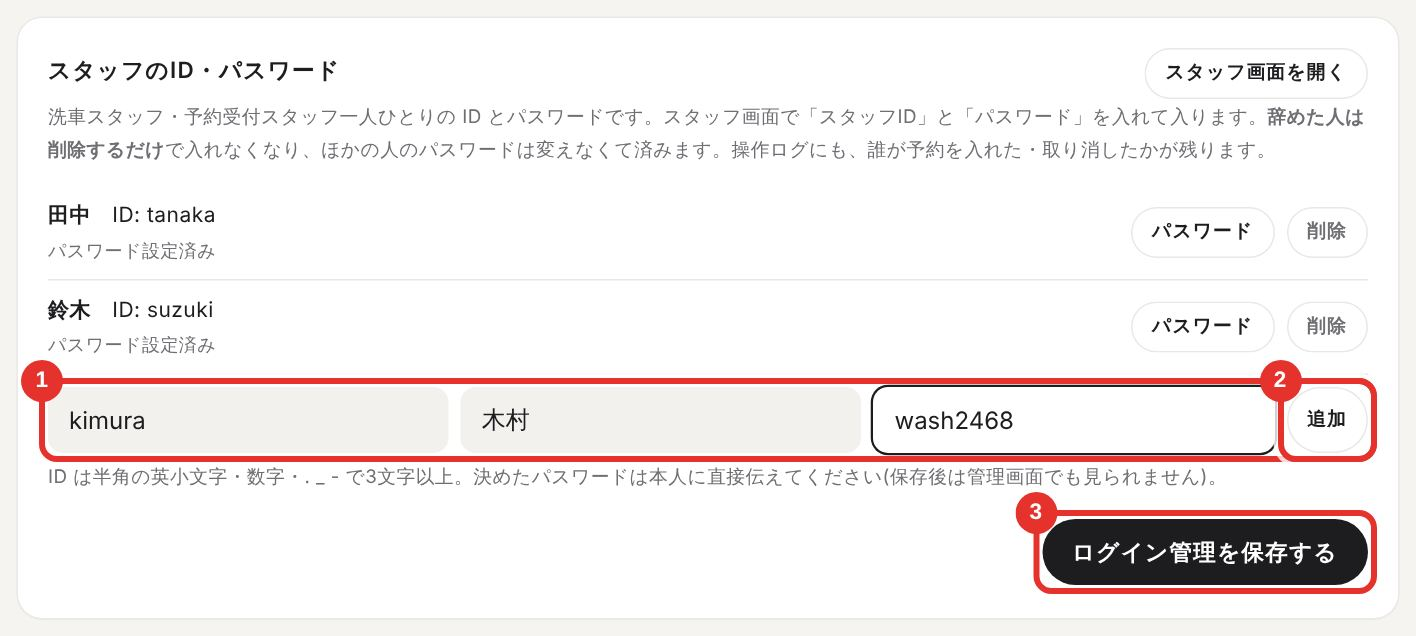
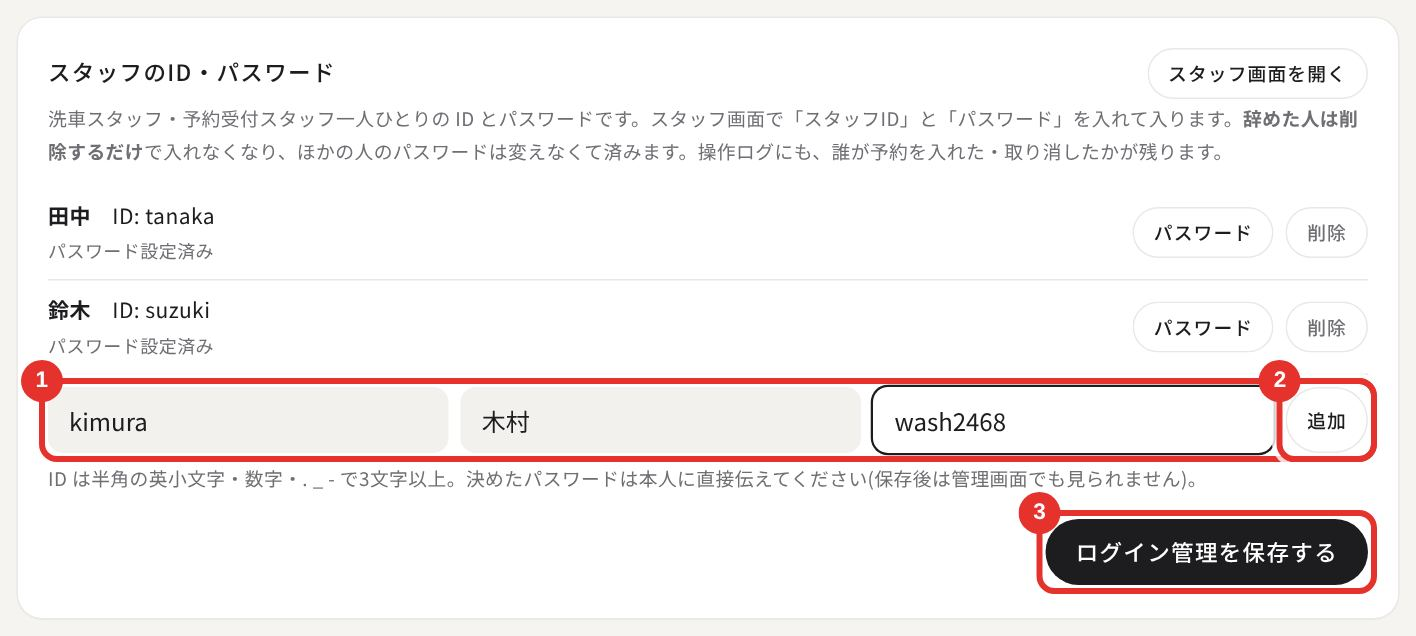
説明書: お客様画面と同じ字体に戻し、写真を日本語の字体で撮り直し
Claude-Session: https://claude.ai/code/session_012tdtVMtKPLFzPU33ZGLdab

diff --git a/admin.html b/admin.html
@@ -252,8 +252,6 @@ textarea:focus,input:focus{background:#fff;box-shadow:0 0 0 1.5px var(--ink);out
 .pv-rule li{display:flex;justify-content:space-between;padding:2px 0;border-top:1px dashed #ecd3a6;list-style:none}
 .pv-rule ul{margin:6px 0 0;padding:0}
 /* 説明書 */
-#t-help,#t-help button,#t-help input{font-family:"Hiragino Kaku Gothic ProN","ヒラギノ角ゴ ProN W3",Meiryo,"メイリオ","MS PGothic",sans-serif;letter-spacing:normal}
-#t-help .hbody li,#t-help .hnote,#t-help .hwhen,#t-help summary small{font-weight:400}
 .bgrid{display:grid;grid-template-columns:repeat(auto-fill,minmax(250px,1fr));gap:10px}
 .blink{display:flex;flex-direction:column;gap:4px;padding:14px 16px;border-radius:14px;background:var(--soft);color:var(--ink);text-decoration:none;border:0;text-align:left;font:inherit;cursor:pointer}
 .blink b{font-size:14.5px}.blink span{font-size:12px;line-height:1.6;color:var(--sub)}
